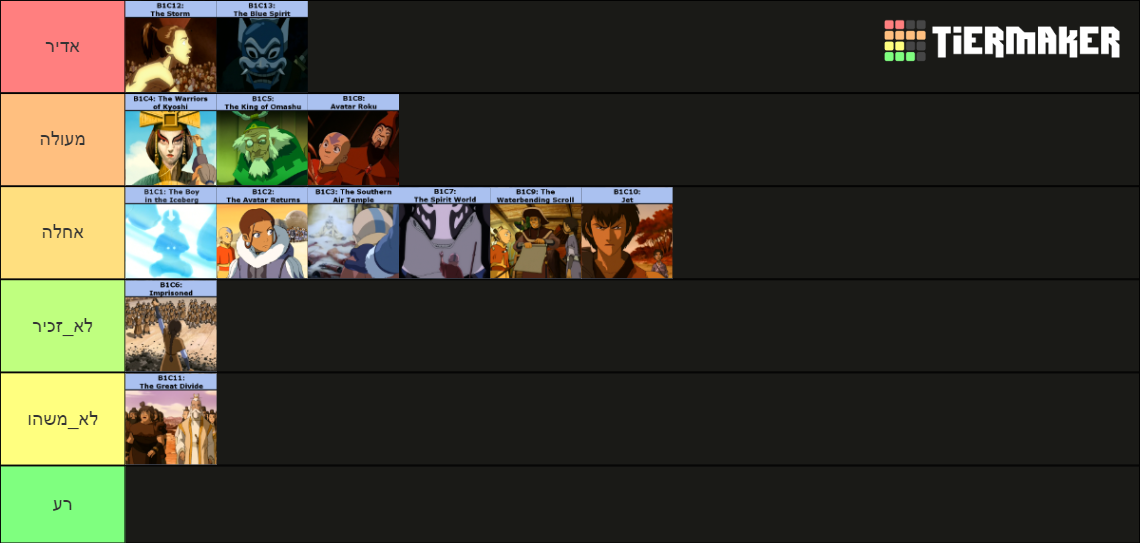
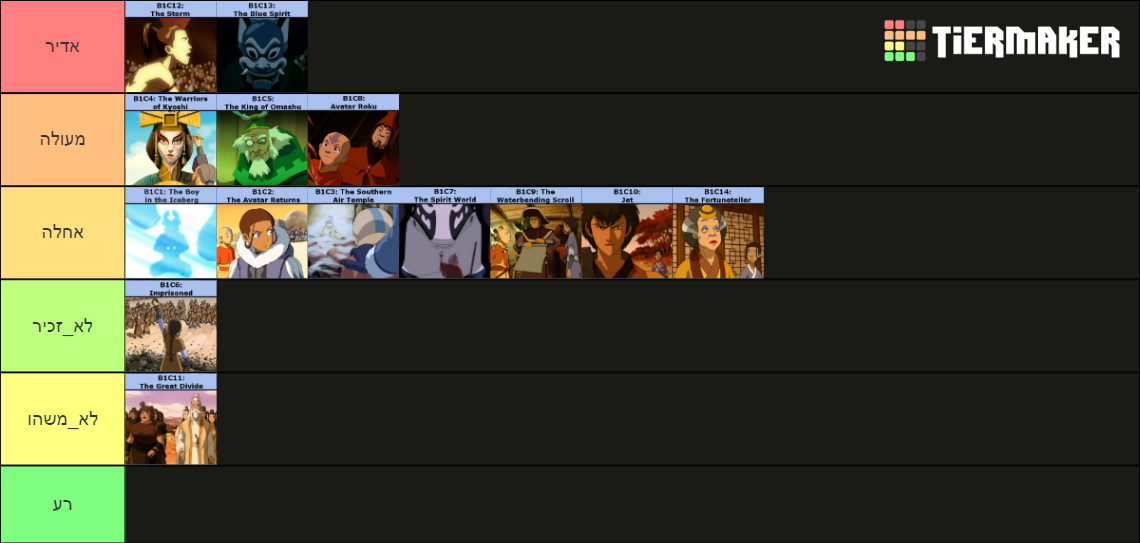
watch episode 114

Changed region(s): [[0.5833, 0.3241, 0.6754, 0.5304]]

diff --git a/עונה 1/114 - מגדת העתידות.md b/עונה 1/114 - מגדת העתידות.md
@@ -1,0 +1,23 @@
+## *תקציר:*
+מגיעים לכפר שבו כל התושבים חיים לפי נבואות של מגדת העתידות המקומית. הם אפילו הפסיקו לבדוק את מצבו של הר הגעש הסמוך (והמאוד פעיל) ובמקום זה מסתמכים על מה שיש לה להגיד בנושא. כמה נוח (או שלא) - הוא מתפרץ בדיוק ביום שבו האווטר וחבריו מבקרים בכפר.
+
+## *סיכום במשפט:*  
+ברירה טבעית
+
+## *ראוי לציון:*  
+גם כשהסדרה נותנת לנו פרק "פילר" ב-low effort, יוצא לה פרק חביב ולא רע.
+
+## *פחות התחברתי:*  
+אין לי בעיה עם זה שזה פרק פילר. בעיקר יש וייב מאוד מוזר לפרק הזה שלא כל כך מתחבר עם שאר הסדרה.
+
+## *הצחיק אותי ממש:*  
+הסאונד אפקטים בפרק הזה היו WILD.
+
+## *ה-MVP של הפרק:*  
+מנג
+
+## *עתידות:*  
+היו יותר מדי הפרק, מאמין שכולן ייתגשמו. במיוחד הנבואה שניתנה בחוסר רצון לסוקה.
+
+## *דירוג הפרק:*  
+אחלה
